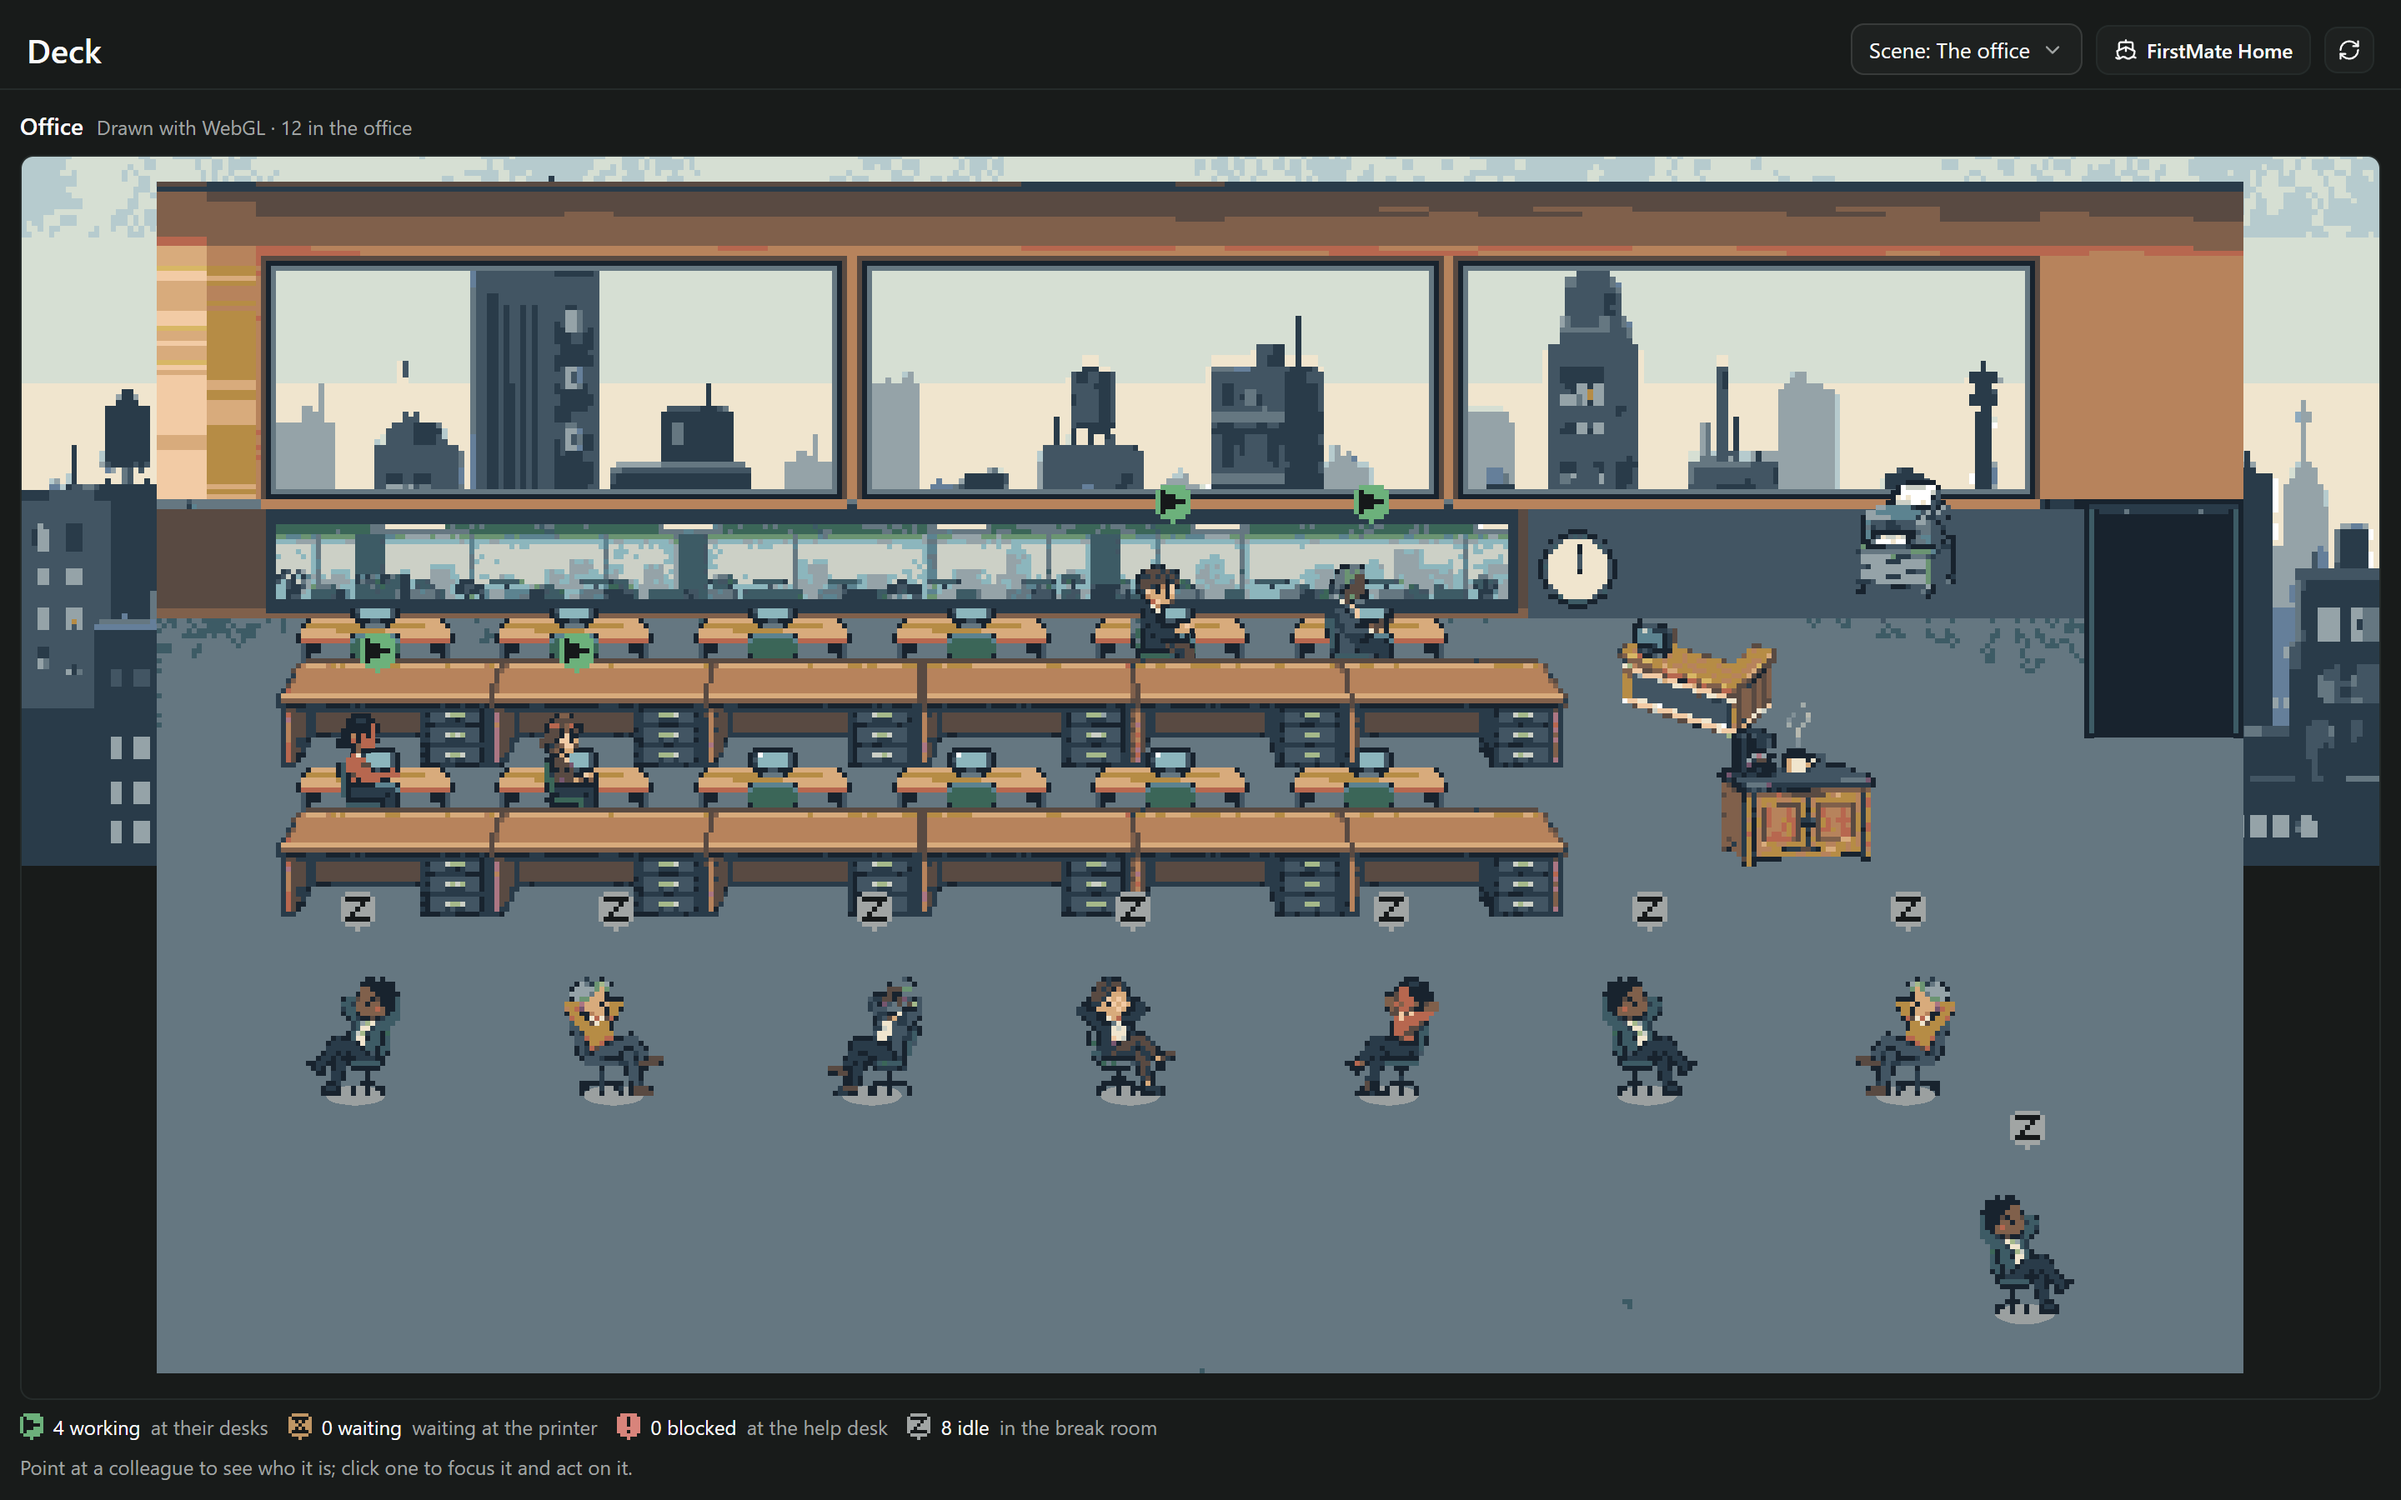
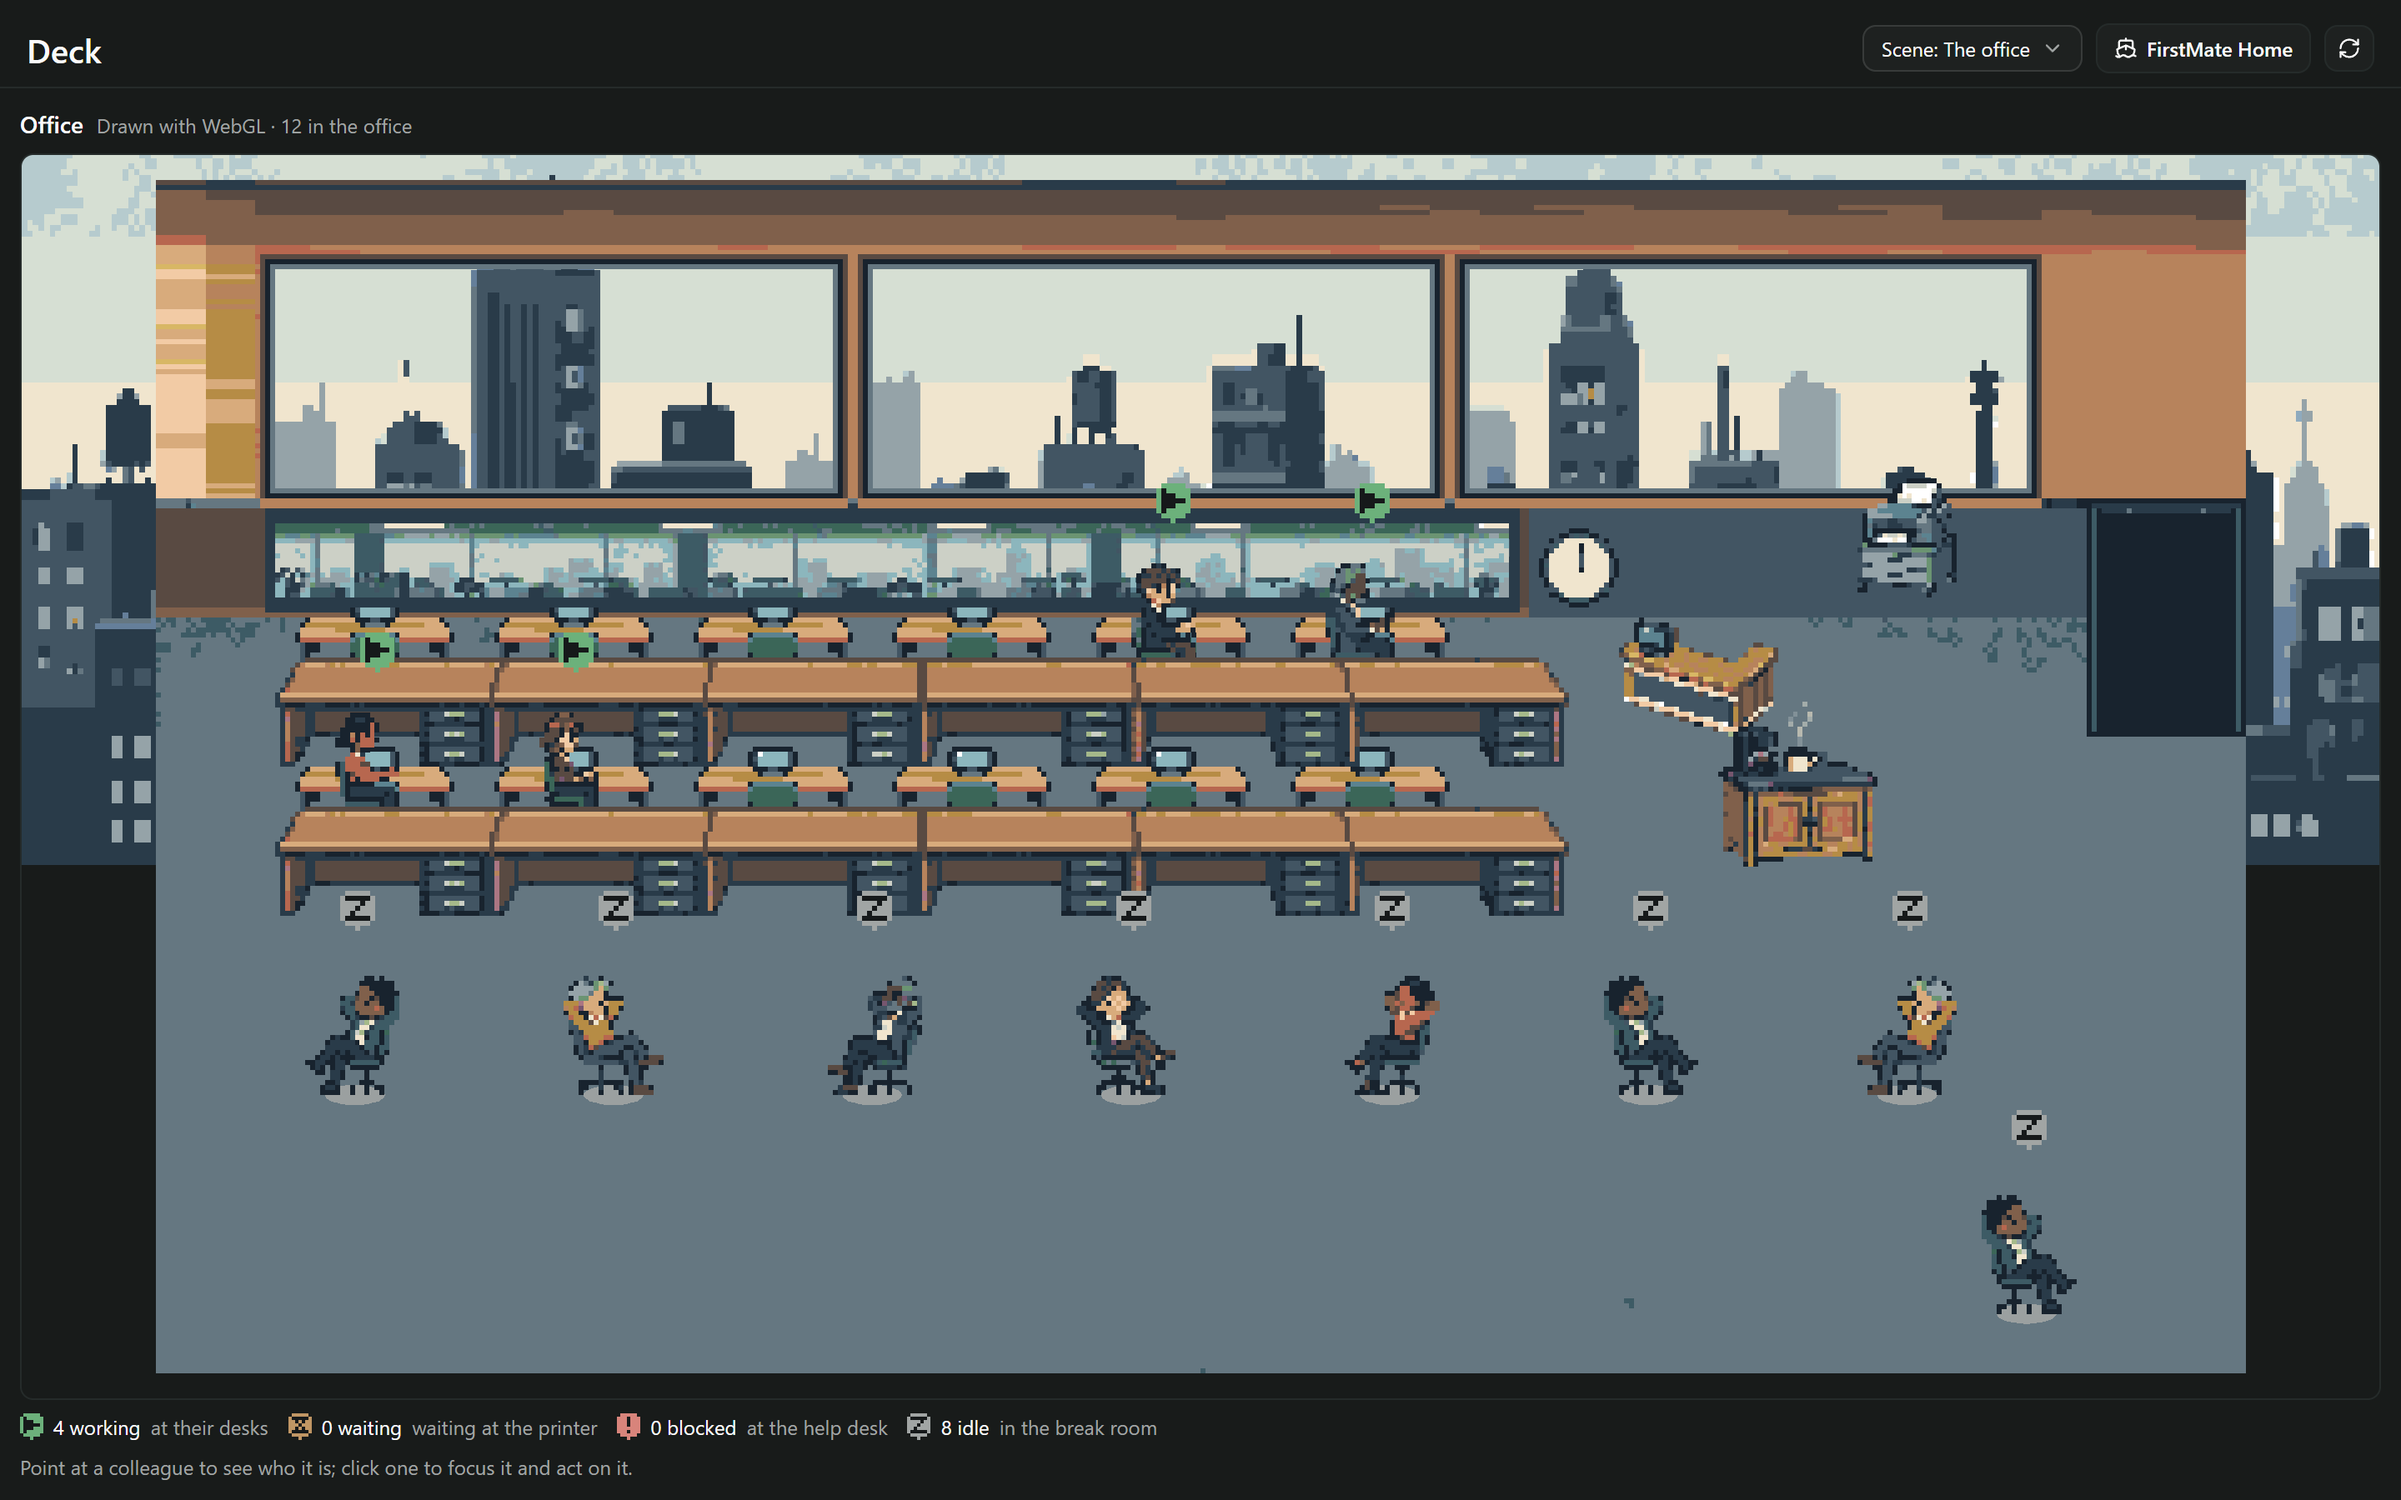
Record scene switcher validation and pixel-identical ship gate

diff --git a/docs/deck-scene-switcher/README.md b/docs/deck-scene-switcher/README.md
@@ -18,7 +18,7 @@ changes from another client. No renderer or pack data changed.
 ```powershell
 npm.cmd ci
 npm.cmd ci --prefix docs/board-list
-npm.cmd test -- --maxWorkers=4
+npm.cmd test -- --maxWorkers=4 --testTimeout=15000
 npm.cmd run typecheck
 npm.cmd run lint:deck-packs
 node docs/ship-deck-canvas/compile.mjs
@@ -40,10 +40,19 @@ same viewport coordinates. It caught a one-pixel header growth in the first impl
 picker now uses the existing 28-point toolbar height. See [gate results](../deck-settings/gate-results.json)
 and [compiler results](../deck-settings/compile-results.json).
 
+Final validation: **82 test files, 1,044 tests passed, 3 skipped**; typecheck; **51 pack-lint checks**;
+changed-client-code formatting; Paseo compiler 0.11.0; both clients parsed by Hermes, **zero client
+`class` tokens**. All **81 shots were pixel-identical**, with no flakes or page errors. The gate ran
+against `1a473e1` while the source changes were still uncommitted; only formatting followed in the
+client. The subsequent rebase onto `0d2f672` changed remote-helper files only. Compilation, the full
+suite and the switcher browser checks were repeated on implementation commit `4b112f4`.
+
 Self-review covered global persistence, document revision conflicts, preservation of unrelated settings,
 duplicate saves, pack compatibility, scene remounting, toolbar geometry and the client bundle boundary.
 The first unbounded test run hit the existing remote-helper background-poll race; bounded concurrency
 passed the full suite without changing its expectations or remote code.
+Another local run alongside the GPU gate exceeded the existing five-second git-fixture timeout;
+the final run grants tests fifteen seconds. CI uses the repository's unchanged default test command.
 
 ![Scene picker](scene-picker.png)
 ![Office selected](office.png)

diff --git a/docs/deck-settings/README.md b/docs/deck-settings/README.md
@@ -18,7 +18,7 @@ node docs/deck-settings/gate.mjs         # needs Edge
 and art, and renders each compiled bundle in headless Edge through one host (`host.jsx`, `stubs.jsx`) that
 imports neither checkout's deck code — so the two can differ in every module and every RPC and still be
 compared. Each scenario is rendered for both at the same moments and the screenshots, the whole window, are
-compared pixel for pixel:
+compared pixel for pixel. The scenarios cover:
 
 The host now follows **Open Deck** into its registered workspace panel; older bundles with the internal
 Deck tab still work in the gate. For an intentional toolbar change, `MASK_TOOLBAR=1` masks only the Deck
